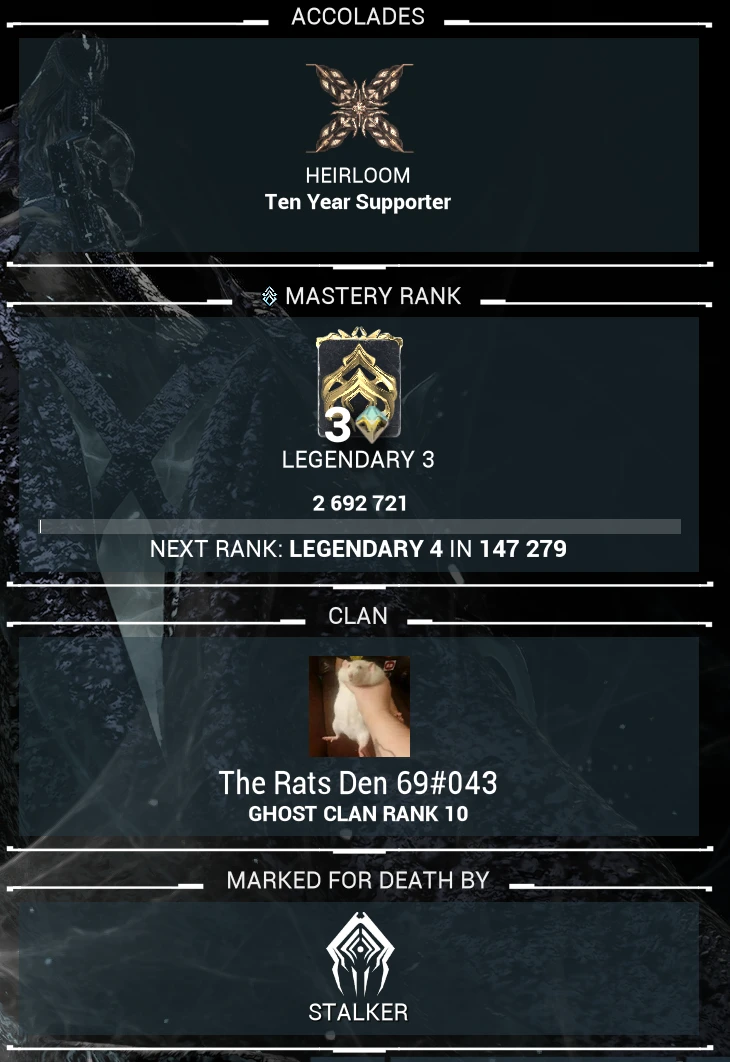
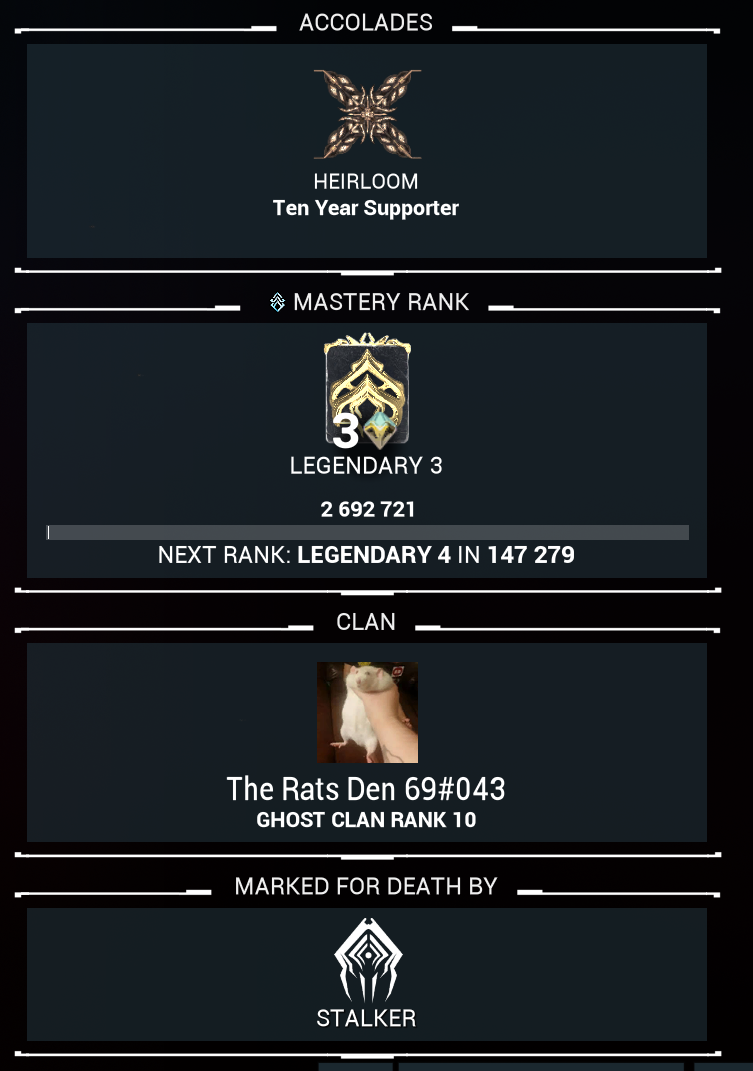
feat(ssroles): use the new profile screenshot as the sticky example

diff --git a/src/ssroles/service.ts b/src/ssroles/service.ts
@@ -259,7 +259,7 @@ export async function setupSsRoles(ctx: AppContext, channelId: string, reference
   ctx.store.updateSettings(ctx.config.DISCORD_GUILD_ID, { ssRolesChannelId: channelId });
   // The example card is public, so its mastery total is reserved for Ordis: posting a copy of the example gets nobody roles.
   ctx.store.claimSs(ctx.config.DISCORD_GUILD_ID, 'points', EXAMPLE_POINTS, ctx.client.user!.id);
-  const exampleUrl = ctx.config.PUBLIC_URL ? `${ctx.config.PUBLIC_URL}/ss-example.png` : null;
+  const exampleUrl = ctx.config.PUBLIC_URL ? `${ctx.config.PUBLIC_URL}/ss-example.png?v=2` : null;
   // The instructions are the channel's sticky message: always the last thing posted, so new members see them.
   await saveSticky(ctx, {
     channelId,
